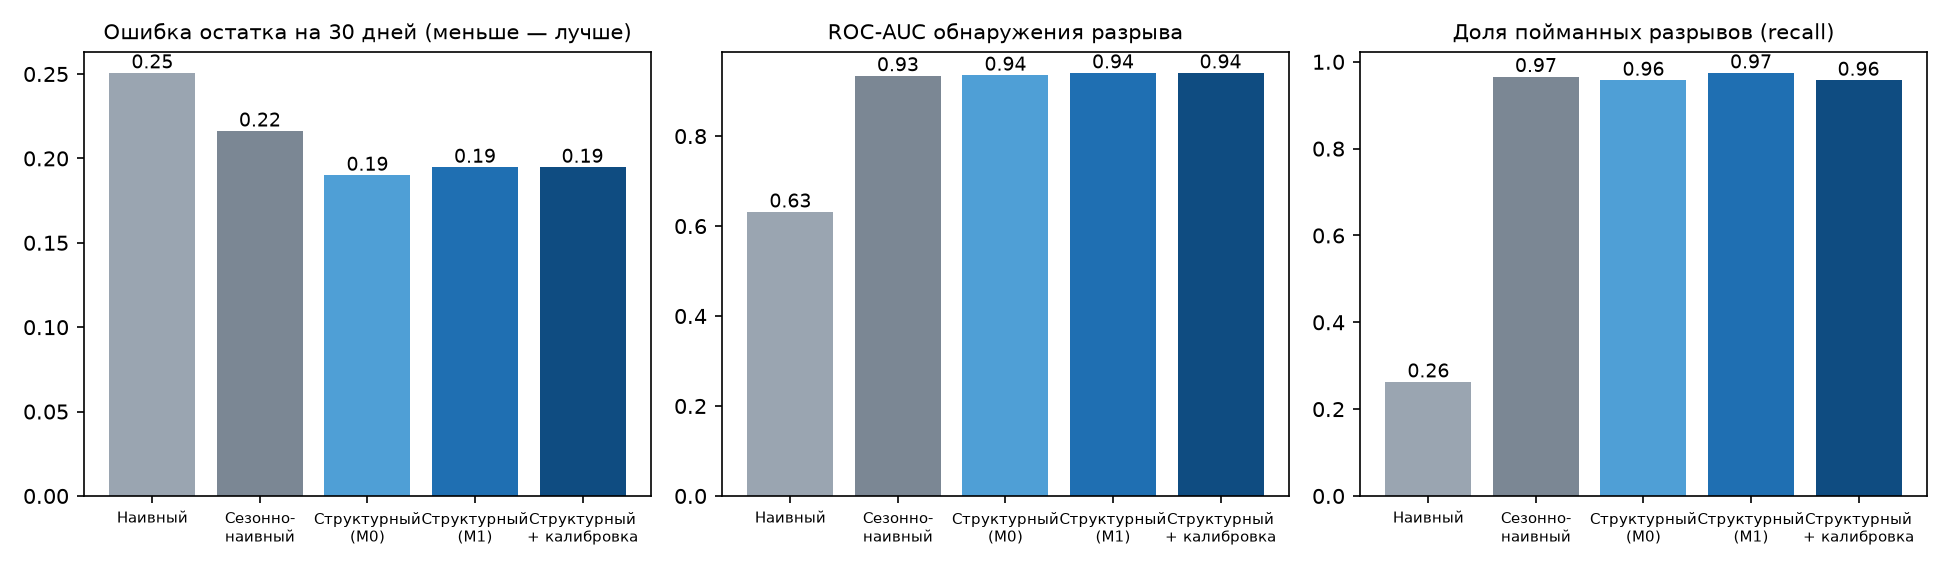
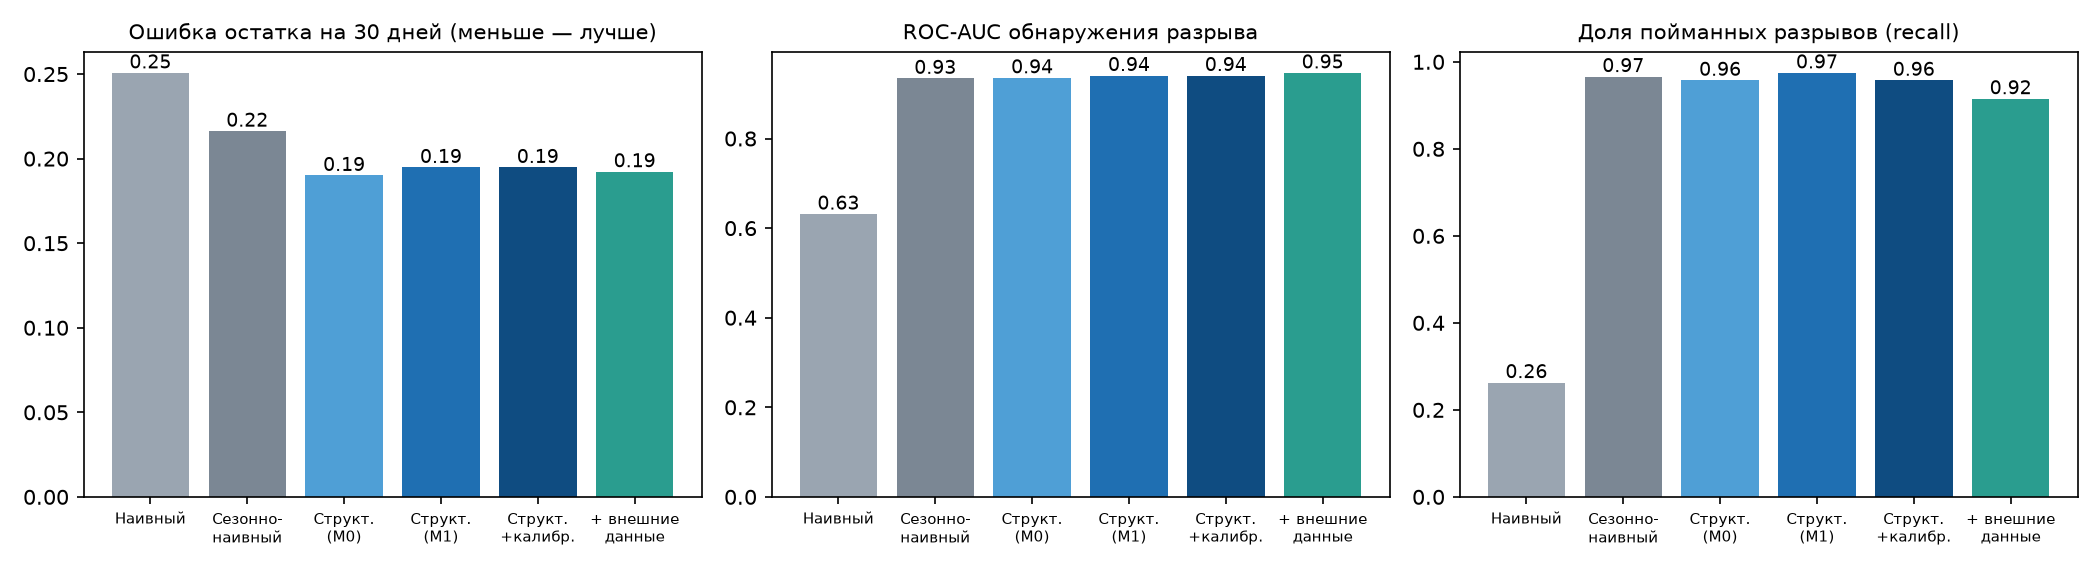
Show all six approaches on the backtest comparison figure

diff --git a/backend/scripts/backtest.py b/backend/scripts/backtest.py
@@ -222,10 +222,10 @@ def draw_figures(report: dict, points_test: list[dict], demo: list[dict], out: P
     import matplotlib.pyplot as plt
 
     out.mkdir(parents=True, exist_ok=True)
-    names = [NAIVE, SEASONAL_NAIVE, STRUCTURAL_M0, STRUCTURAL, STRUCTURAL_CAL]
-    labels = ["Наивный", "Сезонно-\nнаивный", "Структурный\n(M0)", "Структурный\n(M1)", "Структурный\n+ калибровка"]
+    names = [NAIVE, SEASONAL_NAIVE, STRUCTURAL_M0, STRUCTURAL, STRUCTURAL_CAL, STRUCTURAL_EXT]
+    labels = ["Наивный", "Сезонно-\nнаивный", "Структ.\n(M0)", "Структ.\n(M1)", "Структ.\n+калибр.", "+ внешние\nданные"]
     test = report["test"]["approaches"]
-    fig, ax = plt.subplots(1, 3, figsize=(13, 3.8))
+    fig, ax = plt.subplots(1, 3, figsize=(14, 3.8))
     for a, key, title in zip(ax, ("rel_mae_median", "roc_auc", "recall"),
                              ("Ошибка остатка на 30 дней (меньше — лучше)", "ROC-AUC обнаружения разрыва",
                               "Доля пойманных разрывов (recall)"), strict=True):
